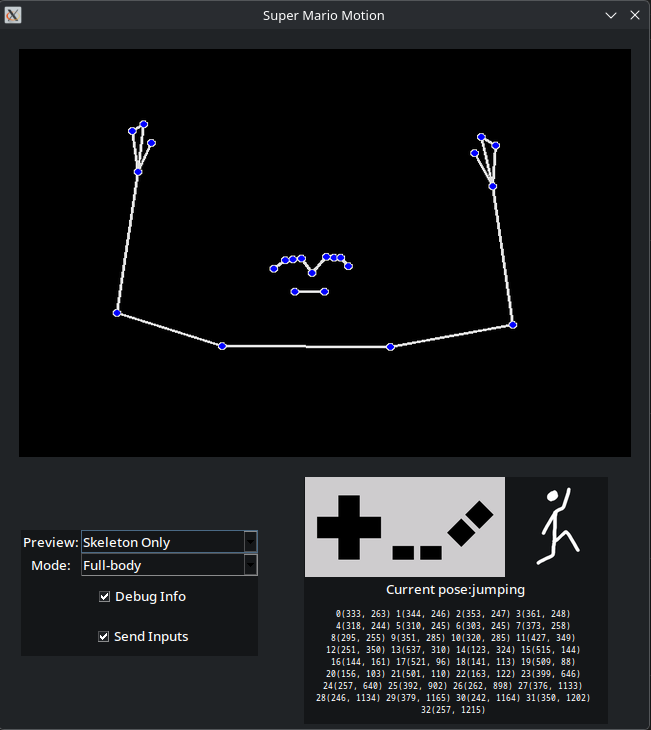
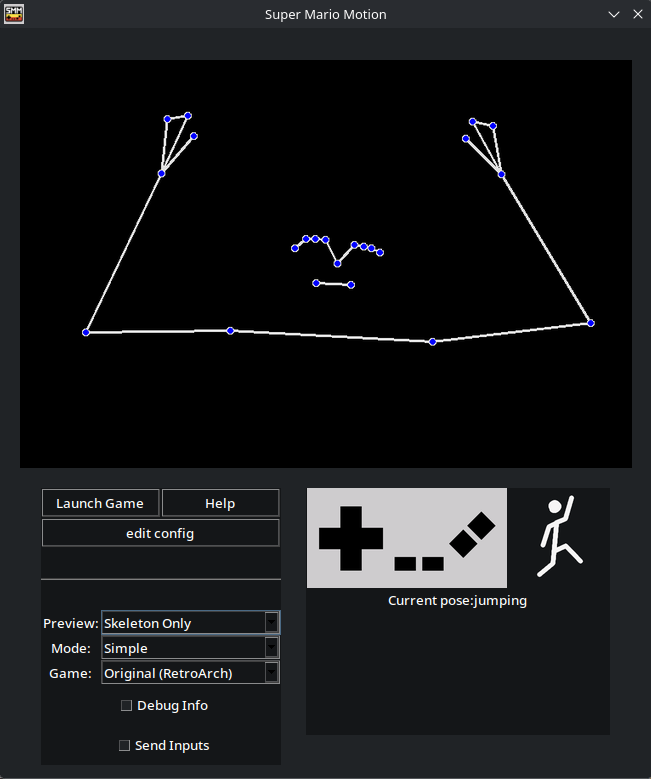
Updated README

diff --git a/README.md b/README.md
@@ -7,10 +7,13 @@ This software is designed to be used alongside an NES emulator running the origi
 Bros. game.
 We do not provide the emulator or the game.
 
+If you dont have an emulator, the application also supports sending inputs to a web version of the game.
+
 ## Table of Contents
 
 - [Requirements](#requirements)
-- [How to Run and Edit](#how-to-run-and-edit)
+- [Downloads](#downloads)
+- [Build app and edit source code](#build-app-and-edit-source-code)
     - [On macOS and Linux](#on-macos-and-linux-using-make)
     - [On Windows](#on-windows)
 - [Usage](#usage)
@@ -19,30 +22,45 @@ We do not provide the emulator or the game.
 - [License](#license)
 
 ## Requirements
+### For running the app
+- **Webcam:** Any common USB-Webcam will do, make sure it is connected, otherwise the program will
+  not be able to run
+
+- (Optional) **NES Emulator**: Any of your choice. Recommended: default
+  settings [RetroArch](https://www.retroarch.com/?page=platforms) using FCEUmm core
+- (Optional) **ROM file**: You must provide your own legally obtained NES ROM. This repository does not
+  include or link to any ROMs.
+
+### For building the app
 
 - **Python**: Version 3.12.11
 
 - **Python-modules**: All required modules can be found in
   the [requirements.txt](https://github.com/Sascha37/super-mario-motion/blob/main/requirements.txt)
   file
-- **Webcam:** Any common USB-Webcam will do, make sure it is connected, otherwise the program will
-  not be able to run
-- **NES Emulator**: Any of your choice. Recommended: default
-  settings [RetroArch](https://www.retroarch.com/?page=platforms) using FCEUmm core
-- **ROM file**: You must provide your own legally obtained NES ROM. This repository does not
-  include or link to any ROMs.
 
-## How to Run and Edit
+## Downloads
+Get the latest release of this application here:
+
+https://github.com/Sascha37/super-mario-motion/releases/latest
+
+
+## Build app and edit source code
 
 ### On macOS and Linux (using `make`)
 
-If you just want to run the program:
+If you want to start to work on the app, use:
 
 ```
 git clone https://github.com/Sascha37/super-mario-motion.git
 cd super-mario-motion/
 make run
 ```
+
+- `make run` will start the application
+- `make pyinstaller` will build an executable (for the current os)
+- `make train` builds the ml-model (needs training data)
+- `make test` will run the pytest testsuite
 
 To modify the source code, open the project in your preferred text editor or IDE.
 
@@ -63,12 +81,13 @@ interpreter (3.12.11 or 3.12.10)
 
 ### Quick Start
 
-- Start the program (if you have not already done so and need help, see the previous step).
-- Start the emulator with your game.
-- You can now select, via the dropdown menu, either full body movement or simple movements (
-  designed to be used while sitting on your chair).
-- Inputs can only be sent to the game if the emulator window is in focus and the `Send Inputs`
+- Start the program (either from source code or the standalone application).
+- Select the version of the game you want to play (web or original).
+- Select between `Simple` (designed to be used while sitting) or `Full-body`-mode (designed to be used while standing). 
+- Inputs can only be sent to the game if the window of the game is in focus and the `Send Inputs`
   checkbox has been checked.
+
+**For more information please press the `Help`-Button or [open this file](https://github.com/Sascha37/super-mario-motion/blob/main/docs/help/help_page.pdf)**
 
 <p align="center">
     <img src="docs/screenshots/ss1.png" alt="Screenshot" height="730"/>
